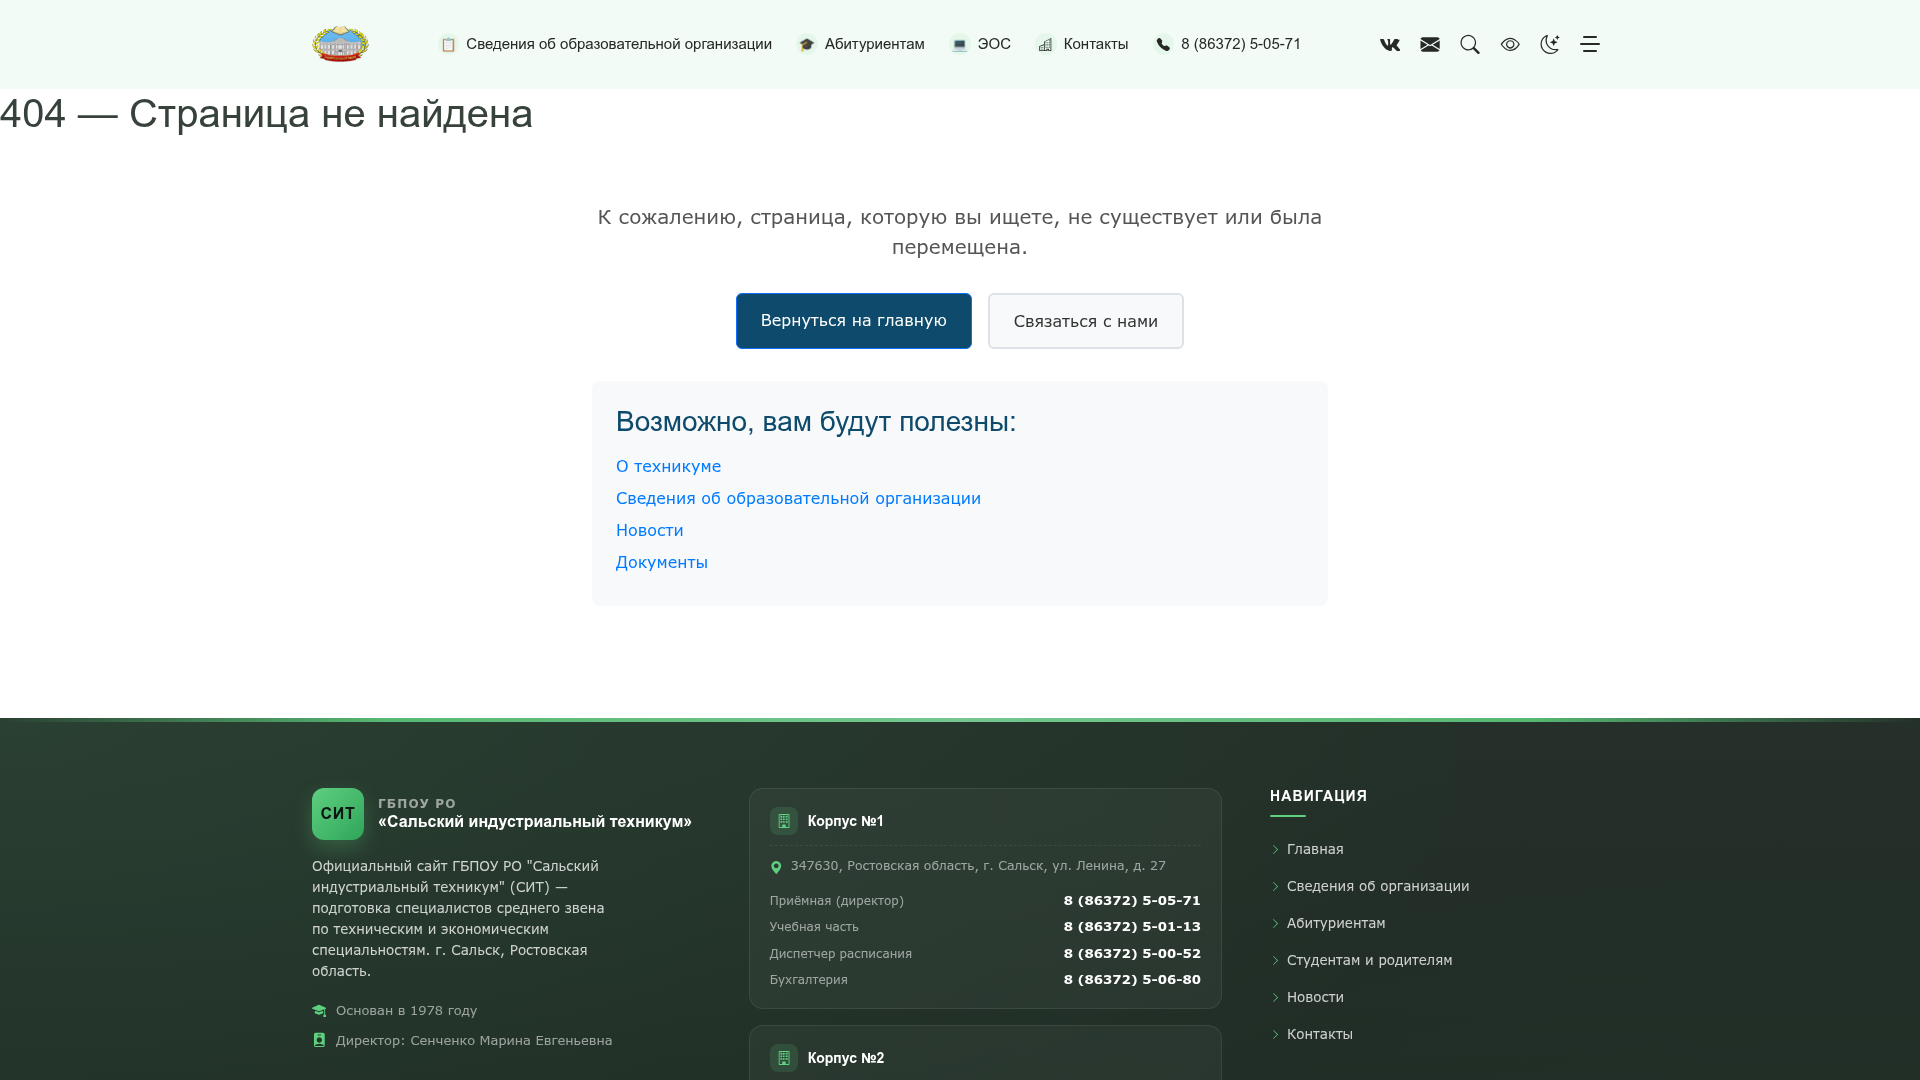
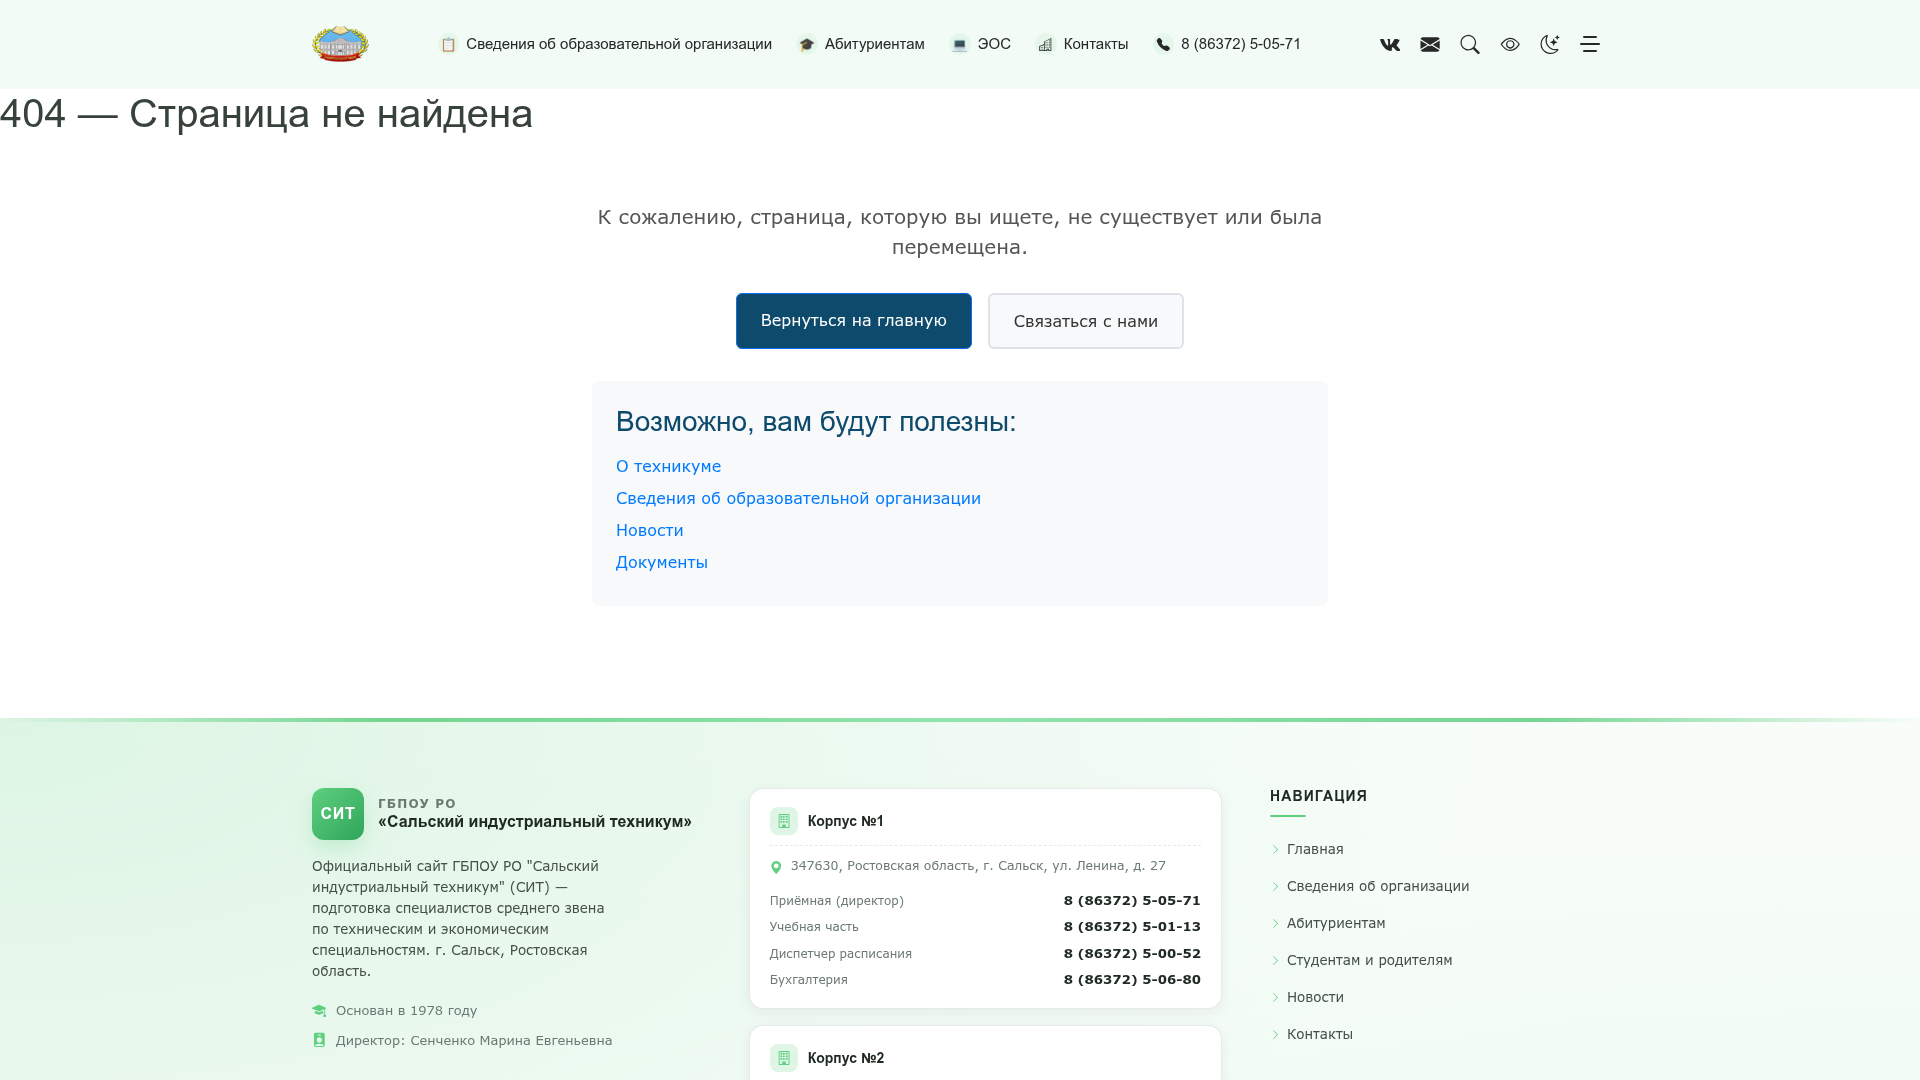
Adapt footer styling to match site theme for better visual consistency
Update CSS variables in `src/styles/main.css` and `public/styles/main.css` to theme the site footer, allowing it to dynamically adjust its background, text, and card colors based on the active theme (light or dark).

Replit-Commit-Author: Agent
Replit-Commit-Session-Id: 1cbef8b3-5c6b-4ff5-a451-6120bc0fa98f
Replit-Commit-Checkpoint-Type: full_checkpoint
Replit-Commit-Event-Id: f62d1e3d-9dea-4989-90c4-db3de61b13a7
Replit-Commit-Screenshot-Url: https://storage.googleapis.com/screenshot-production-us-central1/35794a03-dc8b-46f4-b4e0-cbd595d6cc2a/1cbef8b3-5c6b-4ff5-a451-6120bc0fa98f/w5tvqM3
Replit-Helium-Checkpoint-Created: true

diff --git a/public/styles/main.css b/public/styles/main.css
@@ -513,14 +513,21 @@ h6 {
 # Site Footer (новый дизайн в фирменной палитре)
 --------------------------------------------------------------*/
 .site-footer {
-  --footer-bg-1: #1b2620;
-  --footer-bg-2: #243029;
-  --footer-text: rgba(255, 255, 255, 0.78);
-  --footer-text-strong: #ffffff;
-  --footer-muted: rgba(255, 255, 255, 0.55);
-  --footer-border: rgba(255, 255, 255, 0.08);
-  --footer-card-bg: rgba(255, 255, 255, 0.04);
-  --footer-card-bg-hover: rgba(95, 207, 128, 0.08);
+  /* Светлая тема (по умолчанию) — в тон зелёной шапке */
+  --footer-bg-1: color-mix(in srgb, var(--accent-color), #ffffff 92%);
+  --footer-bg-2: color-mix(in srgb, var(--accent-color), #ffffff 96%);
+  --footer-glow-1: rgba(95, 207, 128, 0.18);
+  --footer-glow-2: rgba(95, 207, 128, 0.10);
+  --footer-text: #455048;
+  --footer-text-strong: #1f2a23;
+  --footer-muted: #6b7a72;
+  --footer-border: rgba(31, 42, 35, 0.10);
+  --footer-card-bg: #ffffff;
+  --footer-card-bg-hover: color-mix(in srgb, var(--accent-color), #ffffff 88%);
+  --footer-card-shadow: 0 4px 14px rgba(31, 42, 35, 0.06);
+  --footer-card-shadow-hover: 0 10px 24px rgba(95, 207, 128, 0.18);
+  --footer-icon-bg: color-mix(in srgb, var(--accent-color), #ffffff 80%);
+  --footer-mark-fg: #ffffff;
   --footer-accent: var(--accent-color);
 
   position: relative;
@@ -528,11 +535,29 @@ h6 {
   padding: 70px 0 0;
   color: var(--footer-text);
   background:
-    radial-gradient(ellipse at top left, rgba(95, 207, 128, 0.10), transparent 55%),
-    radial-gradient(ellipse at bottom right, rgba(95, 207, 128, 0.06), transparent 60%),
+    radial-gradient(ellipse at top left, var(--footer-glow-1), transparent 55%),
+    radial-gradient(ellipse at bottom right, var(--footer-glow-2), transparent 60%),
     linear-gradient(180deg, var(--footer-bg-2) 0%, var(--footer-bg-1) 100%);
   font-size: 14px;
   line-height: 1.55;
+}
+
+/* Тёмная тема — глубокий тёмно-зелёный графит */
+body.dark-theme .site-footer {
+  --footer-bg-1: #1b2620;
+  --footer-bg-2: #243029;
+  --footer-glow-1: rgba(95, 207, 128, 0.10);
+  --footer-glow-2: rgba(95, 207, 128, 0.06);
+  --footer-text: rgba(255, 255, 255, 0.78);
+  --footer-text-strong: #ffffff;
+  --footer-muted: rgba(255, 255, 255, 0.55);
+  --footer-border: rgba(255, 255, 255, 0.08);
+  --footer-card-bg: rgba(255, 255, 255, 0.04);
+  --footer-card-bg-hover: rgba(95, 207, 128, 0.08);
+  --footer-card-shadow: none;
+  --footer-card-shadow-hover: none;
+  --footer-icon-bg: rgba(95, 207, 128, 0.15);
+  --footer-mark-fg: #0d1612;
 }
 
 .site-footer .footer-decoration {
@@ -625,7 +650,7 @@ h6 {
   height: 52px;
   border-radius: 12px;
   background: linear-gradient(135deg, var(--footer-accent), #2fa55a);
-  color: #0d1612;
+  color: var(--footer-mark-fg);
   font-family: var(--heading-font);
   font-weight: 800;
   font-size: 16px;
@@ -699,13 +724,14 @@ h6 {
   background: var(--footer-card-bg);
   border: 1px solid var(--footer-border);
   color: var(--footer-text);
+  box-shadow: var(--footer-card-shadow);
   transition: all 0.25s ease;
 }
 
 .site-footer .footer-social-link:hover {
   background: var(--footer-accent);
   border-color: var(--footer-accent);
-  color: #0d1612;
+  color: #ffffff;
   transform: translateY(-2px);
   box-shadow: 0 8px 18px rgba(95, 207, 128, 0.30);
 }
@@ -725,13 +751,15 @@ h6 {
   border-radius: 14px;
   background: var(--footer-card-bg);
   border: 1px solid var(--footer-border);
-  transition: background 0.25s ease, border-color 0.25s ease, transform 0.25s ease;
+  box-shadow: var(--footer-card-shadow);
+  transition: background 0.25s ease, border-color 0.25s ease, transform 0.25s ease, box-shadow 0.25s ease;
 }
 
 .site-footer .footer-corp-card:hover {
   background: var(--footer-card-bg-hover);
   border-color: rgba(95, 207, 128, 0.30);
   transform: translateY(-2px);
+  box-shadow: var(--footer-card-shadow-hover);
 }
 
 .site-footer .footer-corp-header {
@@ -750,7 +778,7 @@ h6 {
   width: 28px;
   height: 28px;
   border-radius: 8px;
-  background: rgba(95, 207, 128, 0.15);
+  background: var(--footer-icon-bg);
   color: var(--footer-accent);
   font-size: 14px;
 }
@@ -876,7 +904,7 @@ h6 {
   width: 24px;
   height: 24px;
   border-radius: 6px;
-  background: rgba(95, 207, 128, 0.15);
+  background: var(--footer-icon-bg);
   color: var(--footer-accent);
   font-size: 12px;
 }
@@ -906,6 +934,7 @@ h6 {
   border-radius: 12px;
   background: var(--footer-card-bg);
   border: 1px solid var(--footer-border);
+  box-shadow: var(--footer-card-shadow);
   font-size: 12.5px;
   color: var(--footer-muted);
 }
@@ -952,7 +981,7 @@ h6 {
 }
 
 .site-footer .footer-bottom-links span {
-  color: rgba(255, 255, 255, 0.20);
+  color: var(--footer-border);
 }
 
 @media (max-width: 575px) {

diff --git a/src/styles/main.css b/src/styles/main.css
@@ -513,14 +513,21 @@ h6 {
 # Site Footer (новый дизайн в фирменной палитре)
 --------------------------------------------------------------*/
 .site-footer {
-  --footer-bg-1: #1b2620;
-  --footer-bg-2: #243029;
-  --footer-text: rgba(255, 255, 255, 0.78);
-  --footer-text-strong: #ffffff;
-  --footer-muted: rgba(255, 255, 255, 0.55);
-  --footer-border: rgba(255, 255, 255, 0.08);
-  --footer-card-bg: rgba(255, 255, 255, 0.04);
-  --footer-card-bg-hover: rgba(95, 207, 128, 0.08);
+  /* Светлая тема (по умолчанию) — в тон зелёной шапке */
+  --footer-bg-1: color-mix(in srgb, var(--accent-color), #ffffff 92%);
+  --footer-bg-2: color-mix(in srgb, var(--accent-color), #ffffff 96%);
+  --footer-glow-1: rgba(95, 207, 128, 0.18);
+  --footer-glow-2: rgba(95, 207, 128, 0.10);
+  --footer-text: #455048;
+  --footer-text-strong: #1f2a23;
+  --footer-muted: #6b7a72;
+  --footer-border: rgba(31, 42, 35, 0.10);
+  --footer-card-bg: #ffffff;
+  --footer-card-bg-hover: color-mix(in srgb, var(--accent-color), #ffffff 88%);
+  --footer-card-shadow: 0 4px 14px rgba(31, 42, 35, 0.06);
+  --footer-card-shadow-hover: 0 10px 24px rgba(95, 207, 128, 0.18);
+  --footer-icon-bg: color-mix(in srgb, var(--accent-color), #ffffff 80%);
+  --footer-mark-fg: #ffffff;
   --footer-accent: var(--accent-color);
 
   position: relative;
@@ -528,11 +535,29 @@ h6 {
   padding: 70px 0 0;
   color: var(--footer-text);
   background:
-    radial-gradient(ellipse at top left, rgba(95, 207, 128, 0.10), transparent 55%),
-    radial-gradient(ellipse at bottom right, rgba(95, 207, 128, 0.06), transparent 60%),
+    radial-gradient(ellipse at top left, var(--footer-glow-1), transparent 55%),
+    radial-gradient(ellipse at bottom right, var(--footer-glow-2), transparent 60%),
     linear-gradient(180deg, var(--footer-bg-2) 0%, var(--footer-bg-1) 100%);
   font-size: 14px;
   line-height: 1.55;
+}
+
+/* Тёмная тема — глубокий тёмно-зелёный графит */
+body.dark-theme .site-footer {
+  --footer-bg-1: #1b2620;
+  --footer-bg-2: #243029;
+  --footer-glow-1: rgba(95, 207, 128, 0.10);
+  --footer-glow-2: rgba(95, 207, 128, 0.06);
+  --footer-text: rgba(255, 255, 255, 0.78);
+  --footer-text-strong: #ffffff;
+  --footer-muted: rgba(255, 255, 255, 0.55);
+  --footer-border: rgba(255, 255, 255, 0.08);
+  --footer-card-bg: rgba(255, 255, 255, 0.04);
+  --footer-card-bg-hover: rgba(95, 207, 128, 0.08);
+  --footer-card-shadow: none;
+  --footer-card-shadow-hover: none;
+  --footer-icon-bg: rgba(95, 207, 128, 0.15);
+  --footer-mark-fg: #0d1612;
 }
 
 .site-footer .footer-decoration {
@@ -625,7 +650,7 @@ h6 {
   height: 52px;
   border-radius: 12px;
   background: linear-gradient(135deg, var(--footer-accent), #2fa55a);
-  color: #0d1612;
+  color: var(--footer-mark-fg);
   font-family: var(--heading-font);
   font-weight: 800;
   font-size: 16px;
@@ -699,13 +724,14 @@ h6 {
   background: var(--footer-card-bg);
   border: 1px solid var(--footer-border);
   color: var(--footer-text);
+  box-shadow: var(--footer-card-shadow);
   transition: all 0.25s ease;
 }
 
 .site-footer .footer-social-link:hover {
   background: var(--footer-accent);
   border-color: var(--footer-accent);
-  color: #0d1612;
+  color: #ffffff;
   transform: translateY(-2px);
   box-shadow: 0 8px 18px rgba(95, 207, 128, 0.30);
 }
@@ -725,13 +751,15 @@ h6 {
   border-radius: 14px;
   background: var(--footer-card-bg);
   border: 1px solid var(--footer-border);
-  transition: background 0.25s ease, border-color 0.25s ease, transform 0.25s ease;
+  box-shadow: var(--footer-card-shadow);
+  transition: background 0.25s ease, border-color 0.25s ease, transform 0.25s ease, box-shadow 0.25s ease;
 }
 
 .site-footer .footer-corp-card:hover {
   background: var(--footer-card-bg-hover);
   border-color: rgba(95, 207, 128, 0.30);
   transform: translateY(-2px);
+  box-shadow: var(--footer-card-shadow-hover);
 }
 
 .site-footer .footer-corp-header {
@@ -750,7 +778,7 @@ h6 {
   width: 28px;
   height: 28px;
   border-radius: 8px;
-  background: rgba(95, 207, 128, 0.15);
+  background: var(--footer-icon-bg);
   color: var(--footer-accent);
   font-size: 14px;
 }
@@ -876,7 +904,7 @@ h6 {
   width: 24px;
   height: 24px;
   border-radius: 6px;
-  background: rgba(95, 207, 128, 0.15);
+  background: var(--footer-icon-bg);
   color: var(--footer-accent);
   font-size: 12px;
 }
@@ -906,6 +934,7 @@ h6 {
   border-radius: 12px;
   background: var(--footer-card-bg);
   border: 1px solid var(--footer-border);
+  box-shadow: var(--footer-card-shadow);
   font-size: 12.5px;
   color: var(--footer-muted);
 }
@@ -952,7 +981,7 @@ h6 {
 }
 
 .site-footer .footer-bottom-links span {
-  color: rgba(255, 255, 255, 0.20);
+  color: var(--footer-border);
 }
 
 @media (max-width: 575px) {
